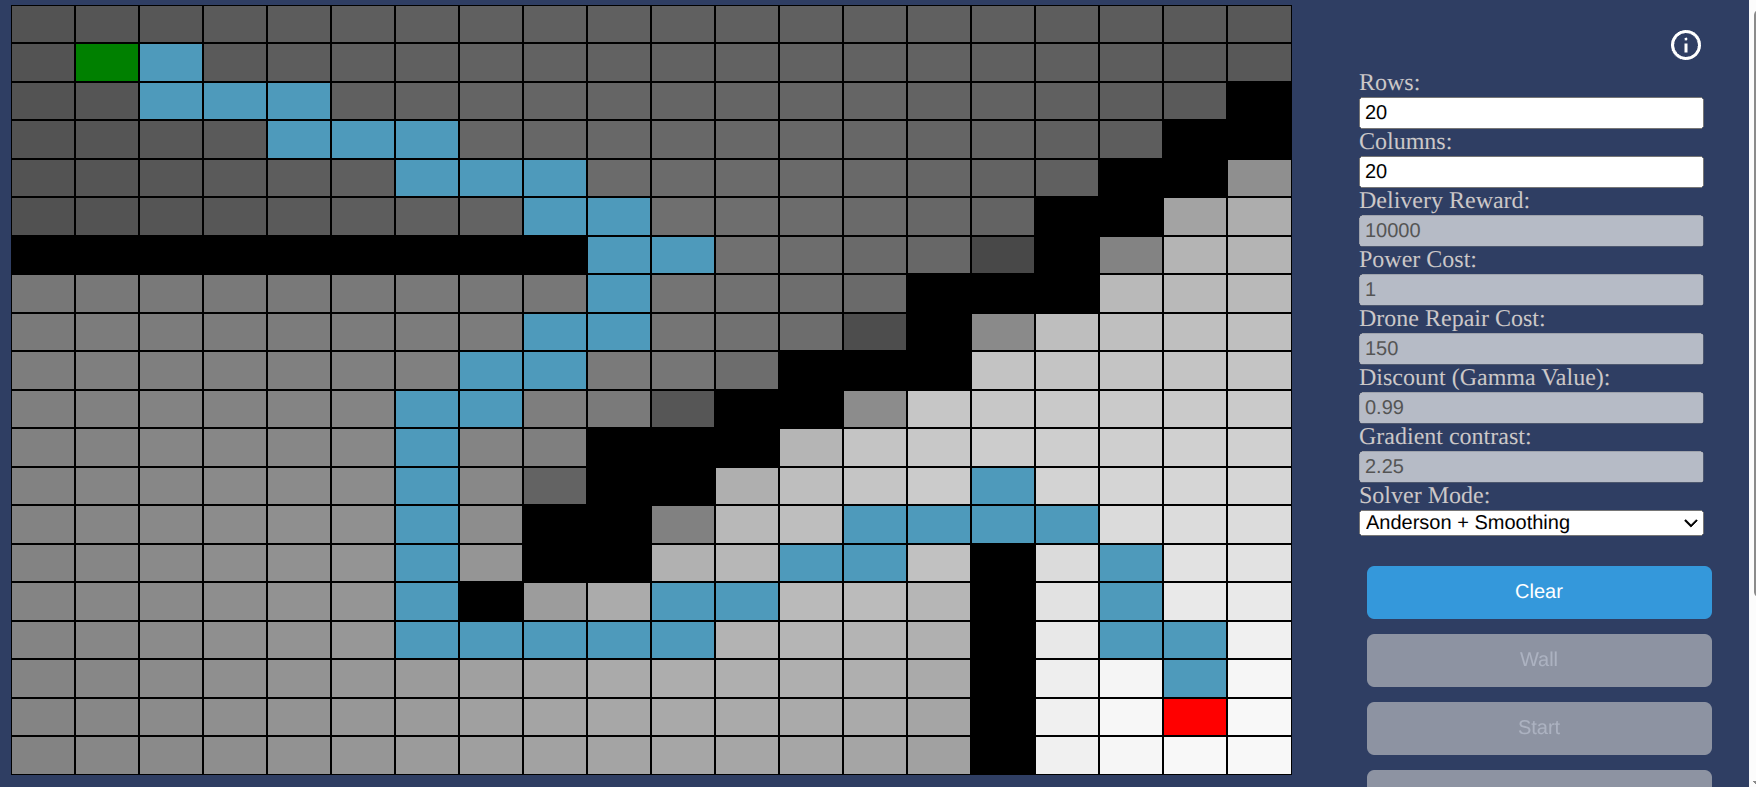
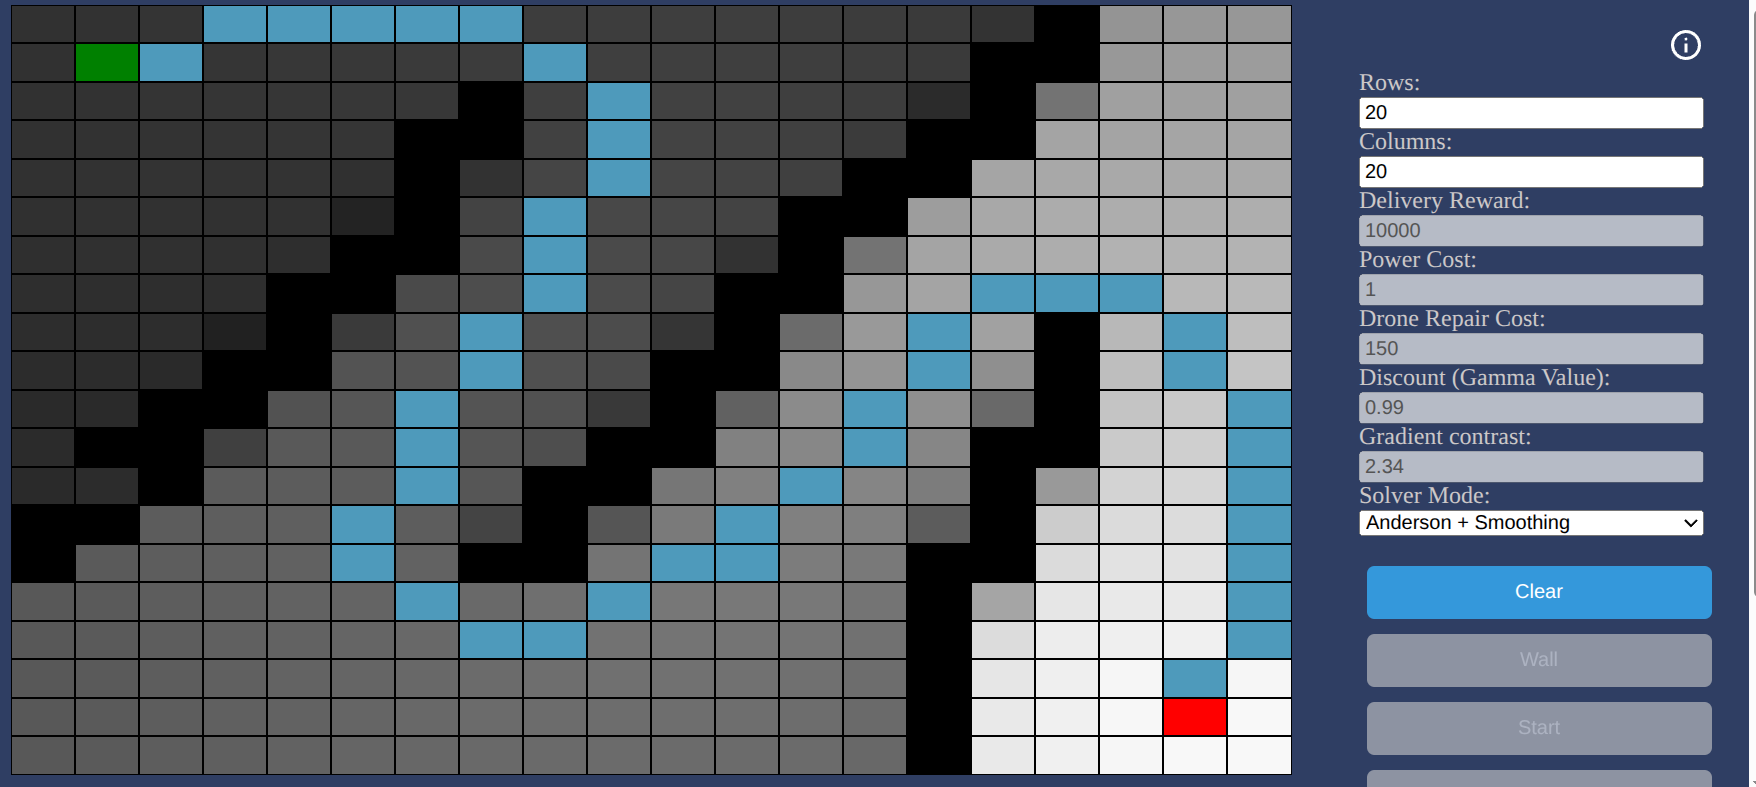
Optimize trajectory rendering to eliminate cell redundancy and path bloating.
Refactored the 'renderGDPath' pipeline to implement a 'Tight-Snap' interpolation strategy. Previously, interpolating directly between floating-point coordinates produced by the Gradient Descent smoother caused 'drift,' where rounding errors introduced redundant adjacent cells and increased the total path length relative to the discrete baseline.

The current implementation resolves this by snapping Gradient Descent waypoints back to their nearest grid centers prior to the interpolation phase. By calculating the discrete Chebyshev distance (max of delta-row and delta-column) between these snapped points, the renderer now generates a strict 1-cell wide 8-directional trajectory.

This ensures that the final visualization maintains the mathematical optimality and lean topology of the classic discrete rollout while still benefiting from the obstacle-avoidance and smoothing properties of the Gradient Descent optimizer.

diff --git a/markovs-decision-process.js b/markovs-decision-process.js
@@ -24,6 +24,87 @@ let isMouseDown, mode, gradientActive = false, lastCompressedValues = [];
 document.getElementById("rows").addEventListener("input", update);
 document.getElementById("columns").addEventListener("input", update);
 
+// =============================================================================
+// TRAJECTORY OPTIMIZATION MODULE (Gradient Descent Smoothing)
+// =============================================================================
+
+class PathOptimizer {
+    /**
+     * Smooths a discrete grid path using a Gradient Descent approach.
+     *
+     * This method is fully dynamic: it does not rely on hardcoded coordinates.
+     * It treats the first and last coordinates of the input path as the
+     * dynamic Start and Goal anchors, ensuring the smoothed trajectory
+     * always begins and ends exactly where the user placed the nodes.
+     *
+     * @param {Array} path - The discrete path produced by the solver [[r, c], [r, c]...].
+     * @param {Array} obstacles - The dynamic 'rivals' array [ [r, c]... ].
+     * @returns {Array} - A smoothed trajectory with floating-point coordinates.
+     */
+    static smoothPath(path, obstacles) {
+        // Safety check: If the path is too short or empty, smoothing is impossible/unnecessary.
+        if (!path || path.length < 3) return path;
+
+        // Hyperparameters for the Gradient Descent process
+        const iterations = 100;       // Number of refinement passes
+        const learningRate = 0.1;     // Step size for coordinate updates
+        const smoothnessWeight = 0.5; // Influence of the internal straightening force
+        const repulsionWeight = 2.0;  // Influence of the obstacle avoidance force
+        const repulsionRadius = 1.5;  // The distance threshold for obstacle repulsion
+
+        // Create a deep copy of the path.
+        // We map the discrete integers to floats to allow the points to move
+        // smoothly between cell centers (sub-pixel precision).
+        let smoothed = path.map(p => [parseFloat(p[0]), parseFloat(p[1])]);
+
+        for (let iter = 0; iter < iterations; iter++) {
+            // DYNAMIC ANCHORING:
+            // We loop from index 1 to length - 2.
+            // This explicitly 'pins' smoothed[0] (Dynamic Start) and
+            // smoothed[smoothed.length - 1] (Dynamic Goal), ensuring
+            // the trajectory never drifts away from the user-defined endpoints.
+            for (let i = 1; i < smoothed.length - 1; i++) {
+                let curr = smoothed[i];
+                let prev = smoothed[i - 1];
+                let next = smoothed[i + 1];
+
+                // --- 1. INTERNAL TENSION FORCE (Smoothing) ---
+                // This calculates the gradient toward the midpoint of the neighbors.
+                // It removes the "stair-step" blockiness of the grid.
+                let smoothForceR = (prev[0] + next[0]) / 2 - curr[0];
+                let smoothForceC = (prev[1] + next[1]) / 2 - curr[1];
+
+                // --- 2. EXTERNAL REPULSION FORCE (Obstacle Avoidance) ---
+                let repelForceR = 0;
+                let repelForceC = 0;
+
+                // Dynamically iterate through all obstacles currently on the board
+                for (let obs of obstacles) {
+                    let distR = curr[0] - obs[0];
+                    let distC = curr[1] - obs[1];
+                    let distanceSq = distR * distR + distC * distC;
+                    let distance = Math.sqrt(distanceSq);
+
+                    // Only apply force if the point is within the influence radius of the obstacle
+                    if (distance < repulsionRadius && distance > 0) {
+                        // Force magnitude is inversely proportional to distance (1/d^3)
+                        // This creates a "hard" push-back as the path gets closer to a wall.
+                        let strength = repulsionWeight / (distanceSq * distance);
+                        repelForceR += distR * strength;
+                        repelForceC += distC * strength;
+                    }
+                }
+
+                // --- 3. GRADIENT DESCENT UPDATE ---
+                // We update the coordinates by moving them in the direction of the combined forces.
+                curr[0] += learningRate * (smoothnessWeight * smoothForceR + repelForceR);
+                curr[1] += learningRate * (smoothnessWeight * smoothForceC + repelForceC);
+            }
+        }
+
+        return smoothed;
+    }
+}
 
 function setup() {
     // call update to read all input fields into the global variables;
@@ -779,25 +860,6 @@ function showSmoothedPath(policies) {
 
 }
 
-function renderGDPath(points, container) {
-    for (let i = 0; i < points.length - 1; i++) {
-        const p1 = points[i];
-        const p2 = points[i + 1];
-        // Interpolate between the two GD-optimized points to ensure no cells are skipped
-        for (let t = 0; t <= 1; t += 0.2) {
-            const r = Math.round(p1[0] + (p2[0] - p1[0]) * t);
-            const c = Math.round(p1[1] + (p2[1] - p1[1]) * t);
-            if (r >= 0 && r < rows && c >= 0 && c < columns) {
-                const cell = container.querySelector(`.cell[data-row="${r}"][data-col="${c}"]`);
-                if (cell && !cell.classList.contains("obstacle") && !cell.classList.contains("start") && !cell.classList.contains("goal")) {
-                    board[r][c] = "path";
-                    cell.classList.add("path");
-                }
-            }
-        }
-    }
-}
-
 /* Path display without Gradient Descent.
 * This is a policy rollout, i.e. a trajectory simulation. Starting from s = s_start , the sequence is generated by:
 * s_{t+1} = succ(s_t, π(s_t));
@@ -1069,84 +1131,40 @@ function computeSoftBellmanUpdate(qValues, useSoftBellman, tau = 0.15) {
     return logSumExpQValues(qValues, tau);
 }
 
-// =============================================================================
-// TRAJECTORY OPTIMIZATION MODULE (Gradient Descent Smoothing)
-// =============================================================================
+function renderGDPath(points, container) {
+    let lastR = null;
+    let lastC = null;
 
-class PathOptimizer {
-    /**
-     * Smooths a discrete grid path using a Gradient Descent approach.
-     *
-     * This method is fully dynamic: it does not rely on hardcoded coordinates.
-     * It treats the first and last coordinates of the input path as the
-     * dynamic Start and Goal anchors, ensuring the smoothed trajectory
-     * always begins and ends exactly where the user placed the nodes.
-     *
-     * @param {Array} path - The discrete path produced by the solver [[r, c], [r, c]...].
-     * @param {Array} obstacles - The dynamic 'rivals' array [ [r, c]... ].
-     * @returns {Array} - A smoothed trajectory with floating-point coordinates.
-     */
-    static smoothPath(path, obstacles) {
-        // Safety check: If the path is too short or empty, smoothing is impossible/unnecessary.
-        if (!path || path.length < 3) return path;
+    for (let i = 0; i < points.length - 1; i++) {
+        // SNAP: Round the GD points to the grid first to prevent "drift" bloat
+        const r1 = Math.round(points[i][0]);
+        const c1 = Math.round(points[i][1]);
+        const r2 = Math.round(points[i + 1][0]);
+        const c2 = Math.round(points[i + 1][1]);
 
-        // Hyperparameters for the Gradient Descent process
-        const iterations = 100;       // Number of refinement passes
-        const learningRate = 0.1;     // Step size for coordinate updates
-        const smoothnessWeight = 0.5; // Influence of the internal straightening force
-        const repulsionWeight = 2.0;  // Influence of the obstacle avoidance force
-        const repulsionRadius = 1.5;  // The distance threshold for obstacle repulsion
+        // Calculate the discrete distance between rounded points
+        const deltaR = r2 - r1;
+        const deltaC = c2 - c1;
+        const steps = Math.max(Math.abs(deltaR), Math.abs(deltaC));
 
-        // Create a deep copy of the path.
-        // We map the discrete integers to floats to allow the points to move
-        // smoothly between cell centers (sub-pixel precision).
-        let smoothed = path.map(p => [parseFloat(p[0]), parseFloat(p[1])]);
+        for (let s = 0; s <= steps; s++) {
+            // Linear interpolation between rounded endpoints
+            const t = steps === 0 ? 0 : s / steps;
+            const r = Math.round(r1 + deltaR * t);
+            const c = Math.round(c1 + deltaC * t);
 
-        for (let iter = 0; iter < iterations; iter++) {
-            // DYNAMIC ANCHORING:
-            // We loop from index 1 to length - 2.
-            // This explicitly 'pins' smoothed[0] (Dynamic Start) and
-            // smoothed[smoothed.length - 1] (Dynamic Goal), ensuring
-            // the trajectory never drifts away from the user-defined endpoints.
-            for (let i = 1; i < smoothed.length - 1; i++) {
-                let curr = smoothed[i];
-                let prev = smoothed[i - 1];
-                let next = smoothed[i + 1];
-
-                // --- 1. INTERNAL TENSION FORCE (Smoothing) ---
-                // This calculates the gradient toward the midpoint of the neighbors.
-                // It removes the "stair-step" blockiness of the grid.
-                let smoothForceR = (prev[0] + next[0]) / 2 - curr[0];
-                let smoothForceC = (prev[1] + next[1]) / 2 - curr[1];
-
-                // --- 2. EXTERNAL REPULSION FORCE (Obstacle Avoidance) ---
-                let repelForceR = 0;
-                let repelForceC = 0;
-
-                // Dynamically iterate through all obstacles currently on the board
-                for (let obs of obstacles) {
-                    let distR = curr[0] - obs[0];
-                    let distC = curr[1] - obs[1];
-                    let distanceSq = distR * distR + distC * distC;
-                    let distance = Math.sqrt(distanceSq);
-
-                    // Only apply force if the point is within the influence radius of the obstacle
-                    if (distance < repulsionRadius && distance > 0) {
-                        // Force magnitude is inversely proportional to distance (1/d^3)
-                        // This creates a "hard" push-back as the path gets closer to a wall.
-                        let strength = repulsionWeight / (distanceSq * distance);
-                        repelForceR += distR * strength;
-                        repelForceC += distC * strength;
+            // Only paint if we've actually moved to a new cell (prevents redundant painting)
+            if (r !== lastR || c !== lastC) {
+                if (r >= 0 && r < rows && c >= 0 && c < columns) {
+                    const cell = container.querySelector(`.cell[data-row="${r}"][data-col="${c}"]`);
+                    if (cell && !cell.classList.contains("obstacle") && !cell.classList.contains("start") && !cell.classList.contains("goal")) {
+                        board[r][c] = "path";
+                        cell.classList.add("path");
                     }
                 }
-
-                // --- 3. GRADIENT DESCENT UPDATE ---
-                // We update the coordinates by moving them in the direction of the combined forces.
-                curr[0] += learningRate * (smoothnessWeight * smoothForceR + repelForceR);
-                curr[1] += learningRate * (smoothnessWeight * smoothForceC + repelForceC);
+                lastR = r;
+                lastC = c;
             }
         }
-
-        return smoothed;
     }
 }
